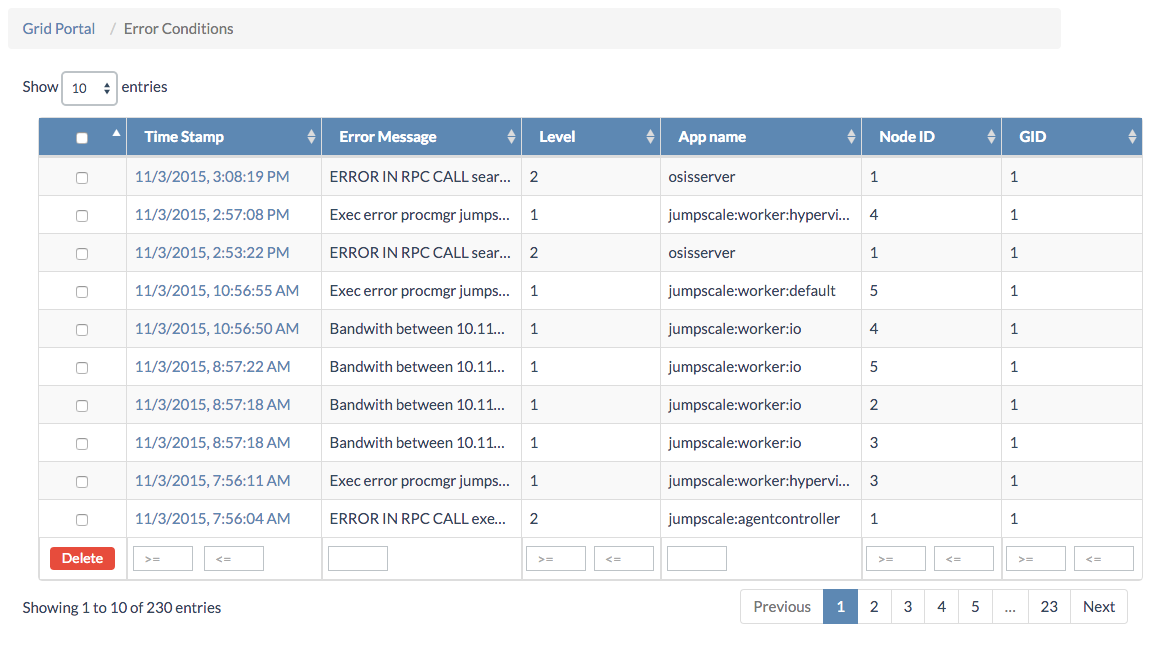
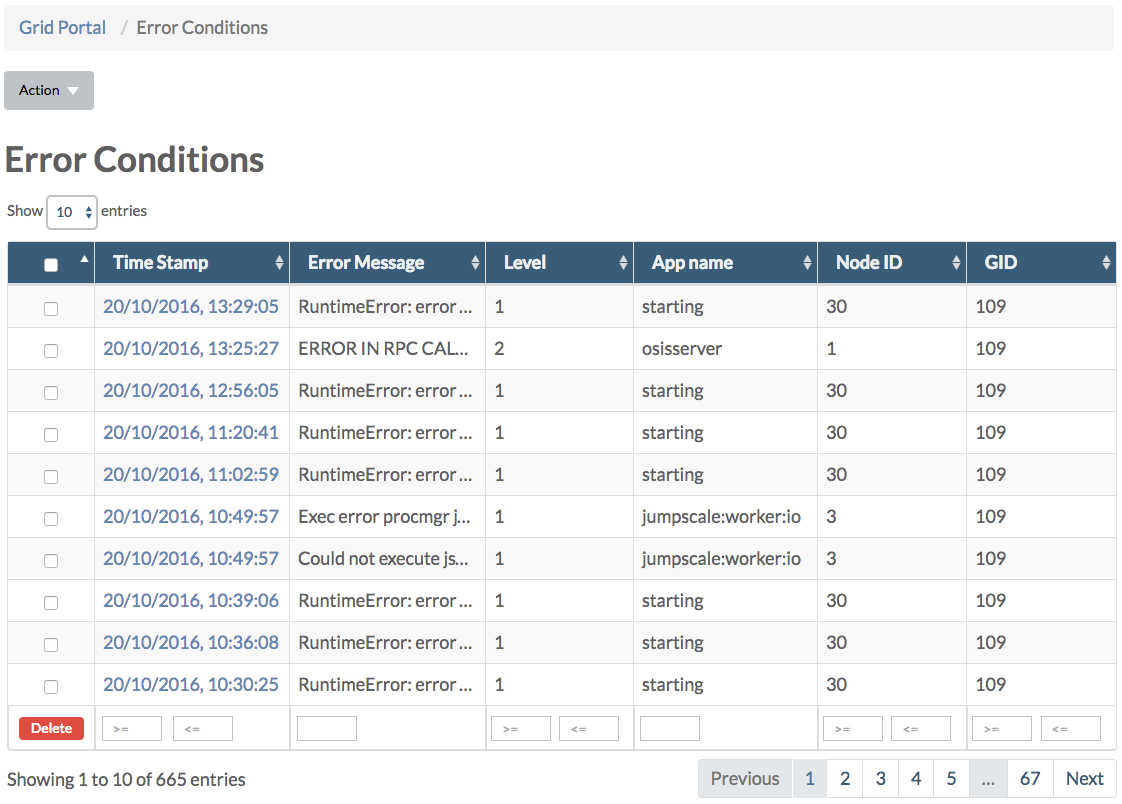
Update the Error Conditions documentation

diff --git a/docs/GridPortal/ErrorConditions/ErrorConditions.md b/docs/GridPortal/ErrorConditions/ErrorConditions.md
@@ -2,11 +2,17 @@
 
 On the **Error Conditions** page all the errors are listed:
 
-![[]](ErrorConditions.png)
+![](ErrorConditions.png)
 
-Clicking the **Time Stamp** brings you to the details of the error condition:
+You can filter on the time stamp, by specifying a date/time range, for instance in the below we filter on everything past October 20th, 11AM:
 
-![[]](ErrorConditionDetails.png)
-![[]](CodeTraceBack.png)
+![](Filter.png)
 
-From the **Actions** dropdown menu you can choose to delete the error condition.
+From the **Actions** dropdown menu you can choose to **Purge** all error conditions.
+
+Clicking the **Time Stamp** brings you to the details of the selected error condition:
+
+![](ErrorConditionDetails.png)
+![](CodeTraceBack.png)
+
+From the **Actions** dropdown menu you can choose to **Delete** the error condition.
